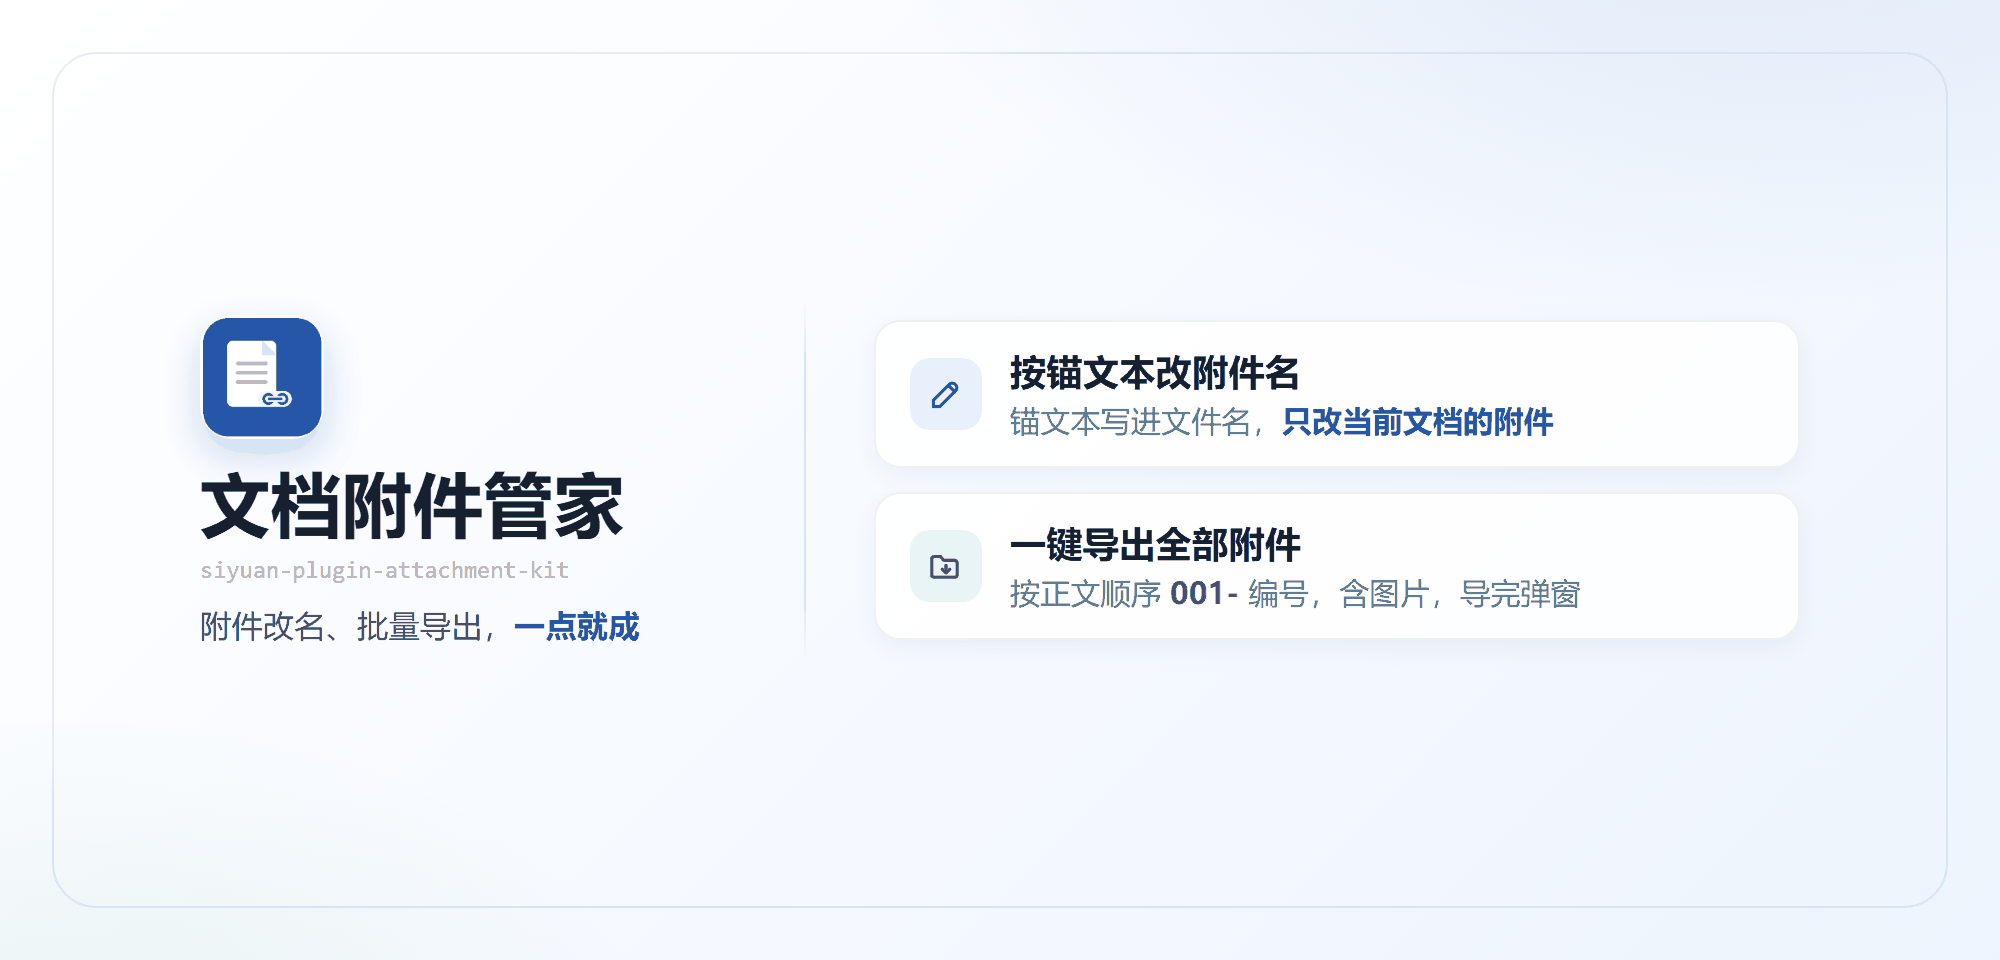
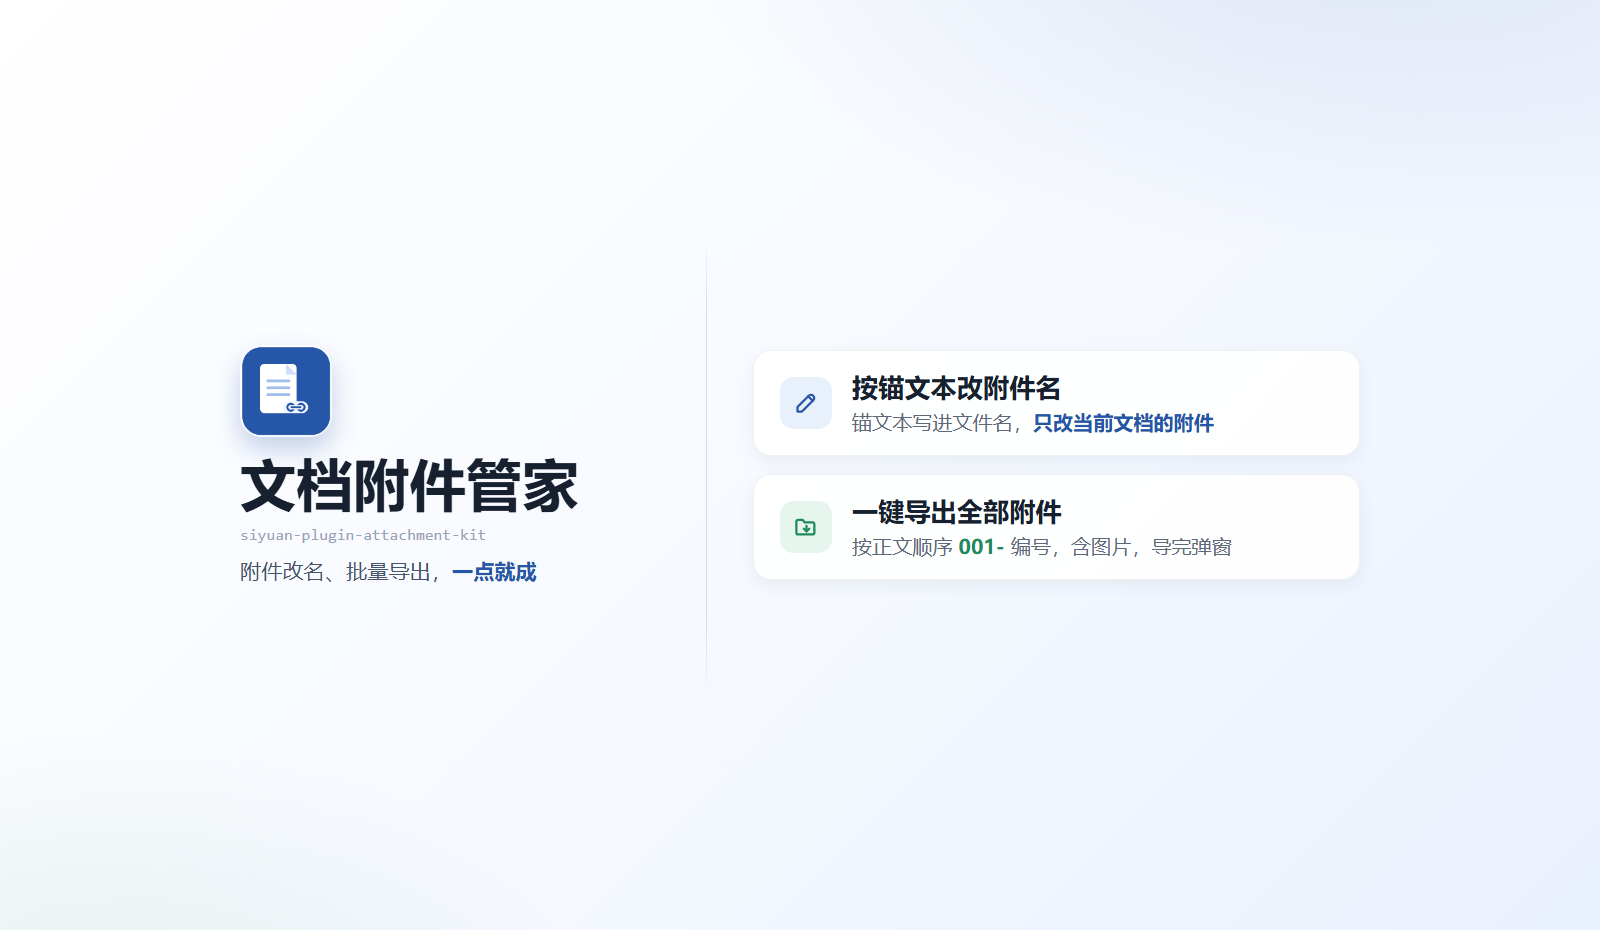
docs: 预览图改 1.72 比例（1600x930）防 cover 裁切；README 增加导出结果与顶栏菜单两张配图

Changed region(s): [[0.0938, 0.3118, 0.375, 0.686], [0.4688, 0.5301, 0.8125, 0.6548], [0.4688, 0.3742, 0.7812, 0.4677]]

diff --git a/test/_preview.html b/test/_preview.html
@@ -3,51 +3,55 @@
 <head>
 <meta charset="utf-8">
 <style>
+  /* 设计尺寸 1600×930（比例 1.72）
+     详情页用 background-size:cover 渲染，容器比例随窗口在 1.5~2.1 浮动，
+     最坏按 1.4 与 2.6 也算过：
+       容器更窄（r_c=1.4）→ 左右各裁 9.3%
+       容器更扁（r_c=2.6）→ 上下各裁 16.9%
+     所以内容一律收进 x∈[15%,85%]、y∈[22%,78%] 的中心安全框，四周只留背景。 */
   * { margin:0; padding:0; box-sizing:border-box; }
-  html,body { width:1000px; height:480px; }
+  html,body { width:1600px; height:930px; }
   body {
     font-family:"Microsoft YaHei UI","Microsoft YaHei","Segoe UI",system-ui,sans-serif;
     background:
-      radial-gradient(620px 320px at 86% -14%, rgba(38,86,168,.10), transparent 70%),
-      radial-gradient(420px 260px at 4% 112%, rgba(31,138,91,.07), transparent 70%),
-      linear-gradient(135deg,#ffffff 0%,#f5f9ff 55%,#eef4fd 100%);
+      radial-gradient(980px 520px at 84% -12%, rgba(38,86,168,.13), transparent 70%),
+      radial-gradient(700px 420px at 6% 110%, rgba(31,138,91,.09), transparent 70%),
+      linear-gradient(135deg,#ffffff 0%,#f6f9ff 52%,#e9f1fd 100%);
     color:#16202e; position:relative; overflow:hidden;
   }
-  /* 详情页用 background-size:cover 渲染，会裁边 → 内容一律放在中间安全区（左右各留 10%） */
-  .frame { position:absolute; inset:26px; border:1px solid rgba(38,86,168,.11); border-radius:22px; }
-  .wrap { position:absolute; left:100px; right:100px; top:0; bottom:0;
-          display:flex; align-items:center; gap:34px; }
+  /* 安全框：left/right 240 (=15%)，top 204 (=22%)，bottom 205 */
+  .wrap { position:absolute; left:240px; right:240px; top:204px; bottom:205px;
+          display:flex; align-items:center; gap:46px; }
 
-  .brand { width:268px; flex:none; }
-  .logo { width:62px; height:62px; border-radius:16px; display:block;
-          box-shadow:0 8px 18px rgba(38,86,168,.24); }
-  .name { font-size:35px; font-weight:600; letter-spacing:.4px; margin-top:13px; line-height:1.1; }
-  .pkg  { font-family:Consolas,"Cascadia Mono",monospace; font-size:12px; color:#97a3b6; margin-top:7px; }
-  .tag  { font-size:15.5px; color:#46536b; margin-top:11px; letter-spacing:.2px; }
+  .brand { width:420px; flex:none; }
+  .logo { width:92px; height:92px; border-radius:22px; display:block;
+          box-shadow:0 12px 26px rgba(38,86,168,.26); }
+  .name { font-size:56px; font-weight:600; letter-spacing:.5px; margin-top:16px; line-height:1.12; }
+  .pkg  { font-family:Consolas,"Cascadia Mono",monospace; font-size:16px; color:#97a3b6; margin-top:10px; }
+  .tag  { font-size:21px; color:#46536b; margin-top:14px; letter-spacing:.2px; }
   .tag b { color:#2656a8; font-weight:600; }
 
-  .sep { width:1px; align-self:stretch; margin:150px 0; flex:none;
-         background:linear-gradient(180deg,transparent,rgba(38,86,168,.16) 20%,rgba(38,86,168,.16) 80%,transparent); }
+  .sep { width:1px; align-self:stretch; margin:26px 0; flex:none;
+         background:linear-gradient(180deg,transparent,rgba(38,86,168,.18) 18%,rgba(38,86,168,.18) 82%,transparent); }
 
-  .feats { flex:1; display:flex; flex-direction:column; gap:12px; }
-  .feat { display:flex; align-items:center; gap:14px; padding:13px 17px; border-radius:13px;
-          background:rgba(255,255,255,.86); border:1px solid rgba(23,43,74,.07);
-          box-shadow:0 4px 12px rgba(23,43,74,.05); }
-  .sq { width:36px; height:36px; border-radius:10px; flex:none; display:flex;
+  .feats { flex:1; display:flex; flex-direction:column; gap:18px; }
+  .feat { display:flex; align-items:center; gap:20px; padding:20px 26px; border-radius:18px;
+          background:rgba(255,255,255,.9); border:1px solid rgba(23,43,74,.07);
+          box-shadow:0 6px 18px rgba(23,43,74,.06); }
+  .sq { width:52px; height:52px; border-radius:14px; flex:none; display:flex;
         align-items:center; justify-content:center; }
   .blue  { background:#e8f0fb; }
   .green { background:#e6f5ee; }
-  .ft { font-size:18px; font-weight:600; letter-spacing:.2px; }
-  .fs { font-size:15px; color:#5c6979; margin-top:4px; letter-spacing:.1px; }
+  .ft { font-size:26px; font-weight:600; letter-spacing:.2px; }
+  .fs { font-size:20px; color:#5c6979; margin-top:6px; letter-spacing:.1px; }
   .fs em { font-style:normal; color:#1f8a5b; font-weight:600; }
   .fs u { text-decoration:none; color:#2656a8; font-weight:600; }
 </style>
 </head>
 <body>
-  <div class="frame"></div>
   <div class="wrap">
     <div class="brand">
[1 lines of base64/hex data omitted]
+      <img class="logo" src="../icon.png" alt="">
       <div class="name">文档附件管家</div>
       <div class="pkg">siyuan-plugin-attachment-kit</div>
       <div class="tag">附件改名、批量导出，<b>一点就成</b></div>
@@ -56,7 +60,7 @@
     <div class="feats">
       <div class="feat">
         <div class="sq blue">
-          <svg width="19" height="19" viewBox="0 0 24 24" fill="none" stroke="#2656a8" stroke-width="2" stroke-linecap="round" stroke-linejoin="round">
+          <svg width="27" height="27" viewBox="0 0 24 24" fill="none" stroke="#2656a8" stroke-width="2" stroke-linecap="round" stroke-linejoin="round">
             <path d="M4 20h4l10-10a2.6 2.6 0 0 0-4-4L4 16v4z"/><path d="M13.5 6.5 17.5 10.5"/>
           </svg>
         </div>
@@ -67,7 +71,7 @@
       </div>
       <div class="feat">
         <div class="sq green">
-          <svg width="19" height="19" viewBox="0 0 24 24" fill="none" stroke="#1f8a5b" stroke-width="2" stroke-linecap="round" stroke-linejoin="round">
+          <svg width="27" height="27" viewBox="0 0 24 24" fill="none" stroke="#1f8a5b" stroke-width="2" stroke-linecap="round" stroke-linejoin="round">
             <path d="M3 7.5A1.5 1.5 0 0 1 4.5 6h4l2 2.4h7A1.5 1.5 0 0 1 19 10v7.5A1.5 1.5 0 0 1 17.5 19h-13A1.5 1.5 0 0 1 3 17.5v-10z"/>
             <path d="M12 11.5v4.5"/><path d="M9.6 14l2.4 2.4 2.4-2.4"/>
           </svg>

diff --git a/test/_fig_export.html b/test/_fig_export.html
@@ -1,0 +1,60 @@
+<!DOCTYPE html>
+<html lang="zh-CN">
+<head>
+<meta charset="utf-8">
+<style>
+  * { margin:0; padding:0; box-sizing:border-box; }
+  html,body { width:880px; height:470px; }
+  body {
+    font-family:"Microsoft YaHei UI","Microsoft YaHei","Segoe UI",system-ui,sans-serif;
+    background:linear-gradient(135deg,#ffffff 0%,#f4f8ff 55%,#e9f1fd 100%);
+    color:#16202e; display:flex; align-items:center; justify-content:center;
+  }
+  .win { width:800px; background:#fff; border-radius:16px; overflow:hidden;
+         border:1px solid rgba(23,43,74,.10); box-shadow:0 18px 44px rgba(23,43,74,.13); }
+  .bar { display:flex; align-items:center; gap:10px; padding:13px 18px;
+         background:#f7faff; border-bottom:1px solid rgba(23,43,74,.08); }
+  .dots { display:flex; gap:7px; }
+  .dots i { width:11px; height:11px; border-radius:50%; display:block; }
+  .d1 { background:#ff5f57; } .d2 { background:#febc2e; } .d3 { background:#28c840; }
+  .path { flex:1; font-size:14.5px; color:#2b3a52; letter-spacing:.1px;
+          background:#fff; border:1px solid rgba(23,43,74,.10); border-radius:9px;
+          padding:7px 13px; margin-left:8px; }
+  .path b { font-weight:600; }
+  .path span { color:#8b97a9; }
+  .cnt { font-size:13px; color:#1f8a5b; background:#e6f5ee; border-radius:20px;
+         padding:5px 12px; font-weight:600; flex:none; }
+  .list { padding:8px 10px 12px; }
+  .row { display:flex; align-items:center; gap:12px; padding:7px 12px; border-radius:9px; }
+  .row:nth-child(odd) { background:#fafcff; }
+  .no { font-family:Consolas,"Cascadia Mono",monospace; font-size:14px; color:#2656a8;
+        font-weight:600; width:38px; flex:none; }
+  .ico { width:22px; height:22px; border-radius:6px; flex:none; display:flex;
+         align-items:center; justify-content:center; font-size:11px; font-weight:700; color:#fff; }
+  .pdf { background:#e2504a; } .xls { background:#1f8a5b; } .doc { background:#2b62c4; }
+  .csv { background:#1f8a5b; } .png { background:#8a5bd6; }
+  .fn { font-size:15px; color:#22304a; letter-spacing:.1px; }
+</style>
+</head>
+<body>
+  <div class="win">
+    <div class="bar">
+      <div class="dots"><i class="d1"></i><i class="d2"></i><i class="d3"></i></div>
+      <div class="path"><span>此电脑 › 临时 ›</span> <b>思源附件-20261103-214712-a3f9c2</b></div>
+      <div class="cnt">55 个文件 · 含 30 张图片</div>
+    </div>
+    <div class="list">
+      <div class="row"><span class="no">001</span><span class="ico pdf">PDF</span><span class="fn">参考文献汇编.pdf</span></div>
+      <div class="row"><span class="no">002</span><span class="ico png">PNG</span><span class="fn">研究区区位图.png</span></div>
+      <div class="row"><span class="no">003</span><span class="ico doc">DOC</span><span class="fn">试验设计方案.docx</span></div>
+      <div class="row"><span class="no">004</span><span class="ico xls">XLS</span><span class="fn">土壤理化性质.xlsx</span></div>
+      <div class="row"><span class="no">005</span><span class="ico pdf">PDF</span><span class="fn">N2O-reducing-microorganisms.pdf</span></div>
+      <div class="row"><span class="no">006</span><span class="ico png">PNG</span><span class="fn">生育期对比-2024.png</span></div>
+      <div class="row"><span class="no">007</span><span class="ico xls">XLS</span><span class="fn">灌溉制度表.xlsx</span></div>
+      <div class="row"><span class="no">008</span><span class="ico csv">CSV</span><span class="fn">2024年产量统计.csv</span></div>
+      <div class="row"><span class="no">009</span><span class="ico png">PNG</span><span class="fn">稻田水位逐日曲线.png</span></div>
+      <div class="row"><span class="no">010</span><span class="ico pdf">PDF</span><span class="fn">研究区概况.pdf</span></div>
+    </div>
+  </div>
+</body>
+</html>

diff --git a/test/_cover_check.py b/test/_cover_check.py
@@ -1,0 +1,40 @@
+# -*- coding: utf-8 -*-
+"""按集市详情页 background-size:cover + center 的规则，模拟多种容器比例下的裁切"""
+from PIL import Image, ImageDraw, ImageFont
+import sys
+
+src = "../preview.png"
+im = Image.open(src).convert("RGB")
+W, H = im.size
+ratios = [1.40, 1.50, 1.70, 2.08, 2.60]
+CW = 560                      # 每格容器宽
+pad, top = 16, 34
+tiles = []
+for r in ratios:
+    ch = int(round(CW / r))
+    s = max(CW / W, ch / H)          # cover
+    nw, nh = int(round(W * s)), int(round(H * s))
+    big = im.resize((nw, nh), Image.LANCZOS)
+    left = (nw - CW) // 2
+    up = (nh - ch) // 2
+    cut = big.crop((left, up, left + CW, up + ch))
+    # 画安全框线（仅参考，不写进成品）
+    tiles.append((r, ch, cut, left, up, nw, nh))
+
+cols = 3
+rows = (len(tiles) + cols - 1) // cols
+cellh = max(t[1] for t in tiles) + top
+sheet = Image.new("RGB", (cols * (CW + pad) + pad, rows * (cellh + pad) + pad), "#20242b")
+d = ImageDraw.Draw(sheet)
+try:
+    f = ImageFont.truetype("C:/Windows/Fonts/msyh.ttc", 18)
+except Exception:
+    f = ImageFont.load_default()
+for i, (r, ch, cut, left, up, nw, nh) in enumerate(tiles):
+    cx = pad + (i % cols) * (CW + pad)
+    cy = pad + (i // cols) * (cellh + pad) + top
+    sheet.paste(cut, (cx, cy))
+    d.text((cx, cy - 26), f"容器比例 {r}  容器 {CW}x{ch}  左右裁 {left}px 上下裁 {up}px", fill="#e8eef7", font=f)
+    d.rectangle([cx, cy, cx + CW - 1, cy + ch - 1], outline="#4a5464")
+sheet.save("_cover_matrix.png")
+print("saved _cover_matrix.png", sheet.size)

diff --git a/README.md b/README.md
@@ -52,6 +52,8 @@
 
 导出的是**副本**：思源库里的原文件、文档内容一概不动。
 
+![导出结果：临时文件夹里按正文顺序编号 001- 到 055](https://cdn.jsdelivr.net/gh/taotaochen86/siyuan-plugin-attachment-kit@main/assets/fig-export.png)
+
 ### 2.3 一个顶栏图标，两件事
 
 顶栏图标（蓝色方块）点一下弹出自绘下拉菜单，头部先报数：
@@ -66,6 +68,8 @@
 
 - 定位贴上沿自动内收，不会跑出屏幕；点别处或按 `Esc` 关闭。
 - 颜色全部取思源 `--b3-*` 变量，**亮 / 暗主题自动跟随**，不用手动切。
+
+![顶栏图标弹出的下拉菜单](https://cdn.jsdelivr.net/gh/taotaochen86/siyuan-plugin-attachment-kit@main/assets/fig-menu.png)
 
 ### 2.4 作用域：只扫当前文档
 
